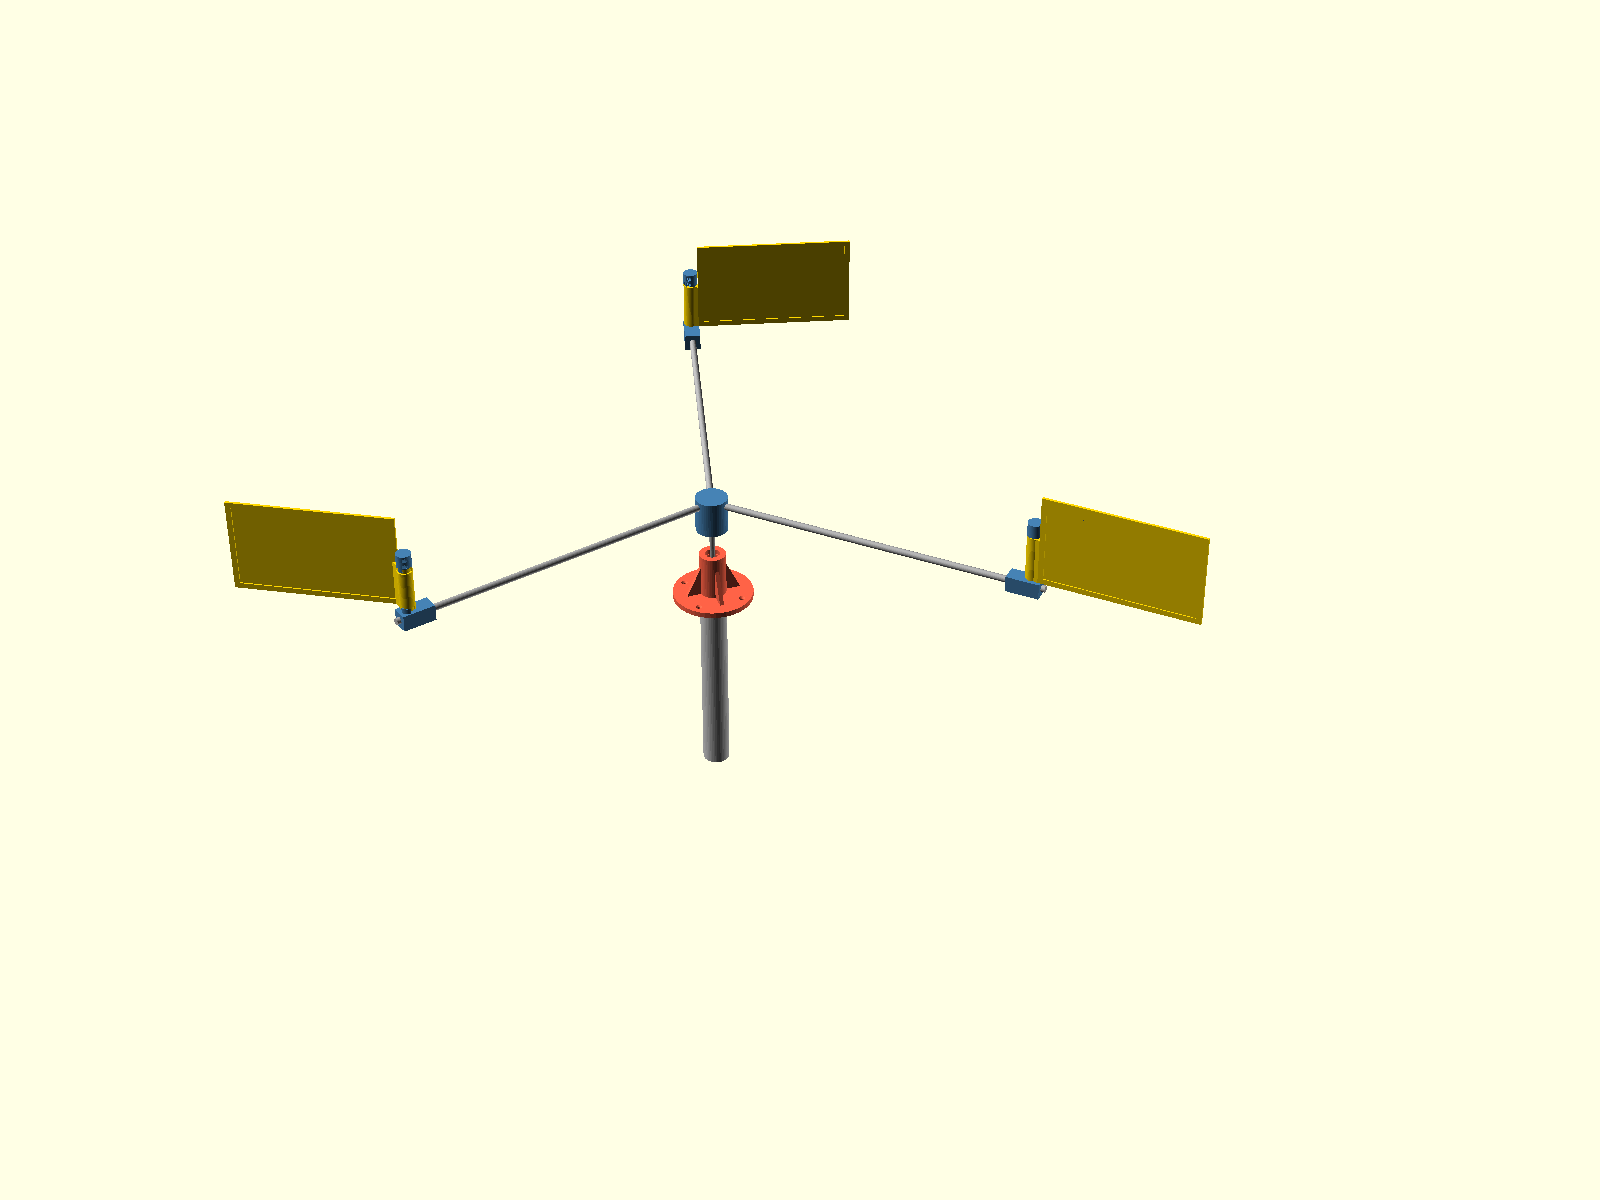
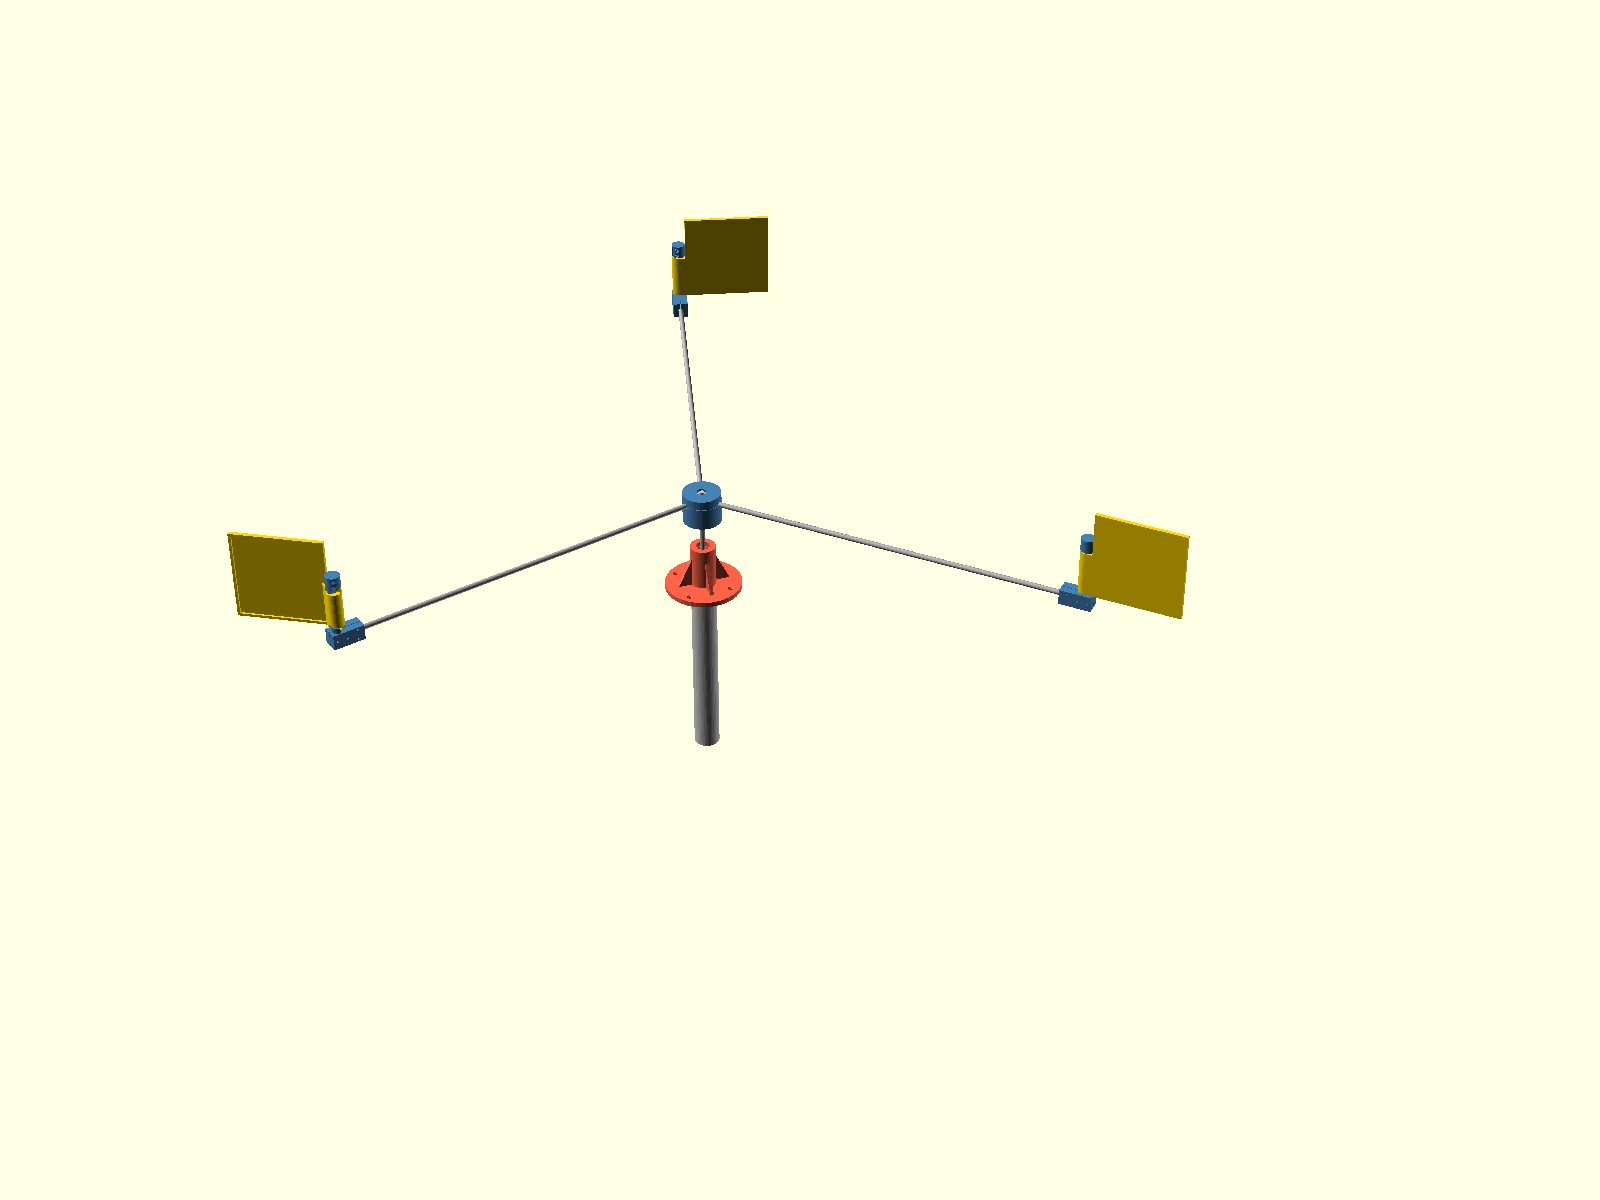
Tri split hub: three arms under one central M5 into the tapped shaft end
The tri's own hub is a cylinder split on the arm plane. Arms lie in
radial half-round seats and butt the boss circle; one central M5 with
a washer runs through both halves into an M5 tap in the shaft's top
end, so a single bolt clamps three arms and locks the shaft axially.
The three rods key the halves, no pegs. The clamshell gap rule
carries over.

The assembly scene now shows the tri v0.1 as planned: this hub plus
the dual vane side verbatim (8 mm arms, real tip bracket, ring, solid
vane, cap), so everything outboard of the hub is production CAD. Film
vane and the reach-for-arm trade stay as later ladder steps.

The tapped shaft is a deliberate divergence from the dual's
no-drilled-rod rule, recorded in docs/tri_concept.md with sourcing
options (tube cannot be tapped; solid rod hand-taps; tapped-end
shafts are a catalog item).

diff --git a/docs/tri_concept.md b/docs/tri_concept.md
@@ -20,11 +20,46 @@ shorten to match. Everything else is open.
 ![tri concept](tri_assembly.png)
 
 The scene is `cad/tri/tri_assembly.scad`; open it in OpenSCAD to
-walk around it (regen_all renders it to the image above). The tri
-models use `tri_` prefixed parameters, are massing concepts rather
-than printable parts, and reuse the dual's stub-side stack (stop
-ring, washer seat, end cap, sleeve bore) directly so proportions
-are honest; hub and tip knuckles are placeholders.
+walk around it (regen_all renders it to the image above). It shows
+the tri v0.1 as currently planned: the vane side is the dual's
+verbatim (8 mm arms and stubs, real tip bracket, stop ring, solid
+vane and end cap), and only the center is new. The tri models use
+`tri_` prefixed parameters and nothing from `cad/tri/` is exported
+to `stl/`.
+
+## The split hub
+
+The tri's hub (`cad/tri/tri_hub.scad`) is a cylinder split on the
+horizontal plane containing all three arm axes. The arms lie in
+radial half-round seats and butt against the boss circle around
+the bolt bore; the top half closes over them, and one central M5
+with a washer runs down through both halves into a tapped hole in
+the shaft's top end. Tightening it pulls the shaft face up against
+the socket shoulder and presses the halves together, so a single
+bolt clamps three arms and locks the shaft axially at once. The
+three rods at 120 degrees key the halves against relative
+rotation, so there are no registration pegs, and the dual's
+clamshell rule carries over: the seats are cut shy by
+`tri_hub_gap`, so preload lands on the rods, never on
+face-to-face plastic. Both halves print seats-up with every bore
+vertical.
+
+This is a deliberate divergence from the dual's no-rod-is-ever-
+drilled rule, and it marks the variants' characters: the dual is
+the fully DIY machine (hacksaw and hex keys only), the tri leans
+commercial-kit, with a PREPARED shaft (drill 4.2 mm, tap M5x0.8,
+10 mm deep in one end). Sourcing that prepared shaft:
+
+- Tube cannot be tapped: any 8 mm tube has a bore at or above 5
+  mm, which is already larger than the M5 thread. Solid rod only.
+- Solid 8 mm aluminum rod taps easily by hand: center punch,
+  drill 4.2 mm about 14 mm deep, tap M5x0.8. A lathe makes it
+  concentric and fast but is not required, because the socket
+  locates the shaft and the bolt only supplies axial preload, so
+  thread concentricity is not critical.
+- For kits, linear-motion suppliers sell ground 8 mm shafts with
+  female-tapped ends as a standard catalog option, which is zero
+  machining.
 
 The dual's performance work showed what limits low-wind running
 once the geometry is tuned: thrust-seat friction, vane mass, and
@@ -57,6 +92,7 @@ would have to be bolted on, at which point the swing-vane concept
 is the simpler machine.
 
 Build order as the tri matures toward its first release: three
-arms first (pure consistency, no new materials), then washers,
-then film vanes, then the reach-for-arm trade only if the water
-still asks for it. Further tri ideas land here as they come.
+arms first via the split hub above (pure consistency, dual vanes
+throughout), then washers, then film vanes, then the reach-for-arm
+trade only if the water still asks for it. Further tri ideas land
+here as they come.
